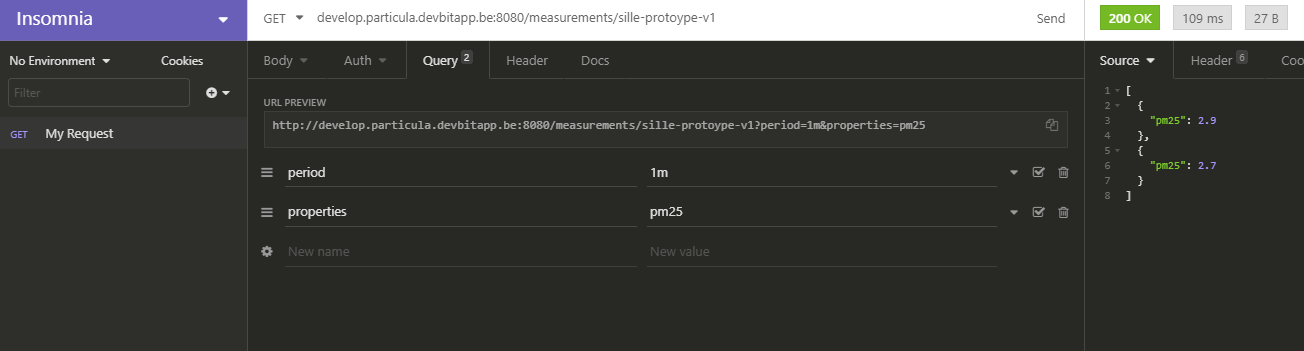
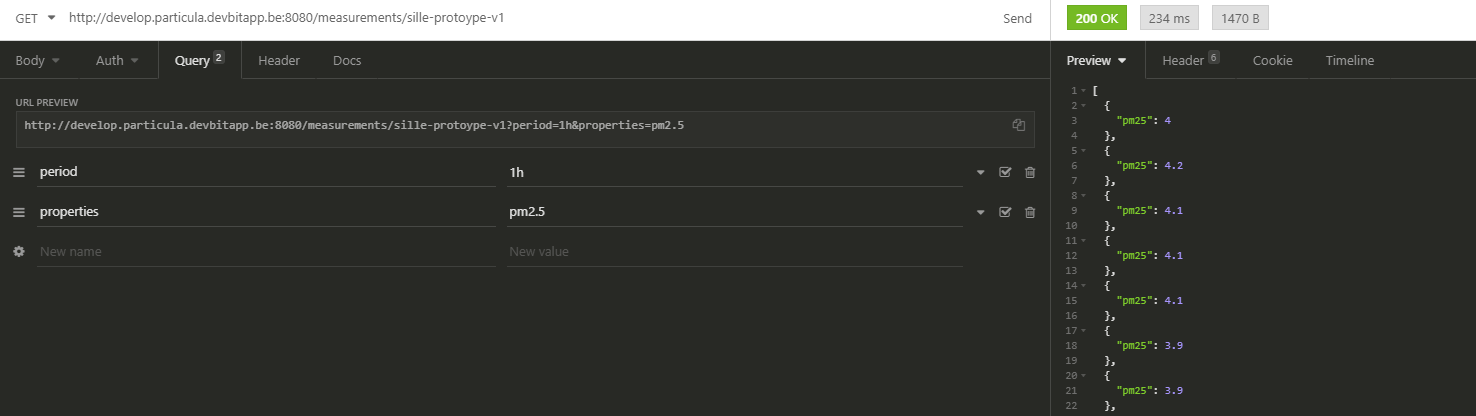
writing readme

diff --git a/README.md b/README.md
@@ -50,17 +50,26 @@ door hierbij het id toe te voegen krijg je een specifieke sensor:
 http://develop.particula.devbitapp.be:8080/measurements/nico-prototype-l432
 ```
 
-Om data te kunnen weergeven moet je een periode en een propertie toevoegen:
+Om data te kunnen weergeven moet je een periode: (Available values : 1h, 24h, 7d, 30d, 1y, 3y, all)
 
+Default value : 24h
 ```
-http://develop.particula.devbitapp.be:8080/measurements/nico-prototype-l432?period=1d&properties=pm25
+http://develop.particula.devbitapp.be:8080/measurements/nico-prototype-l432?period=1d&properties=pm2.5
 ```
 
-in dit geval voegen we de pm2.5 waarde van de sensor van nico dit van de afgelopen 24h.
+in dit geval voegen we de pm2.5 waarde van de sensor van nico dit van de afgelopen 1h.
 
 Dit kan ook weergegeven worden dankzij insomnia:
 
 ![](images/insomnia.PNG)
+
+Wanneer waarden worden opgevraagt die groter zijn dan 1h (24h, 7d, 30d, 1y, 3y, all) wordt er gebruik gemaakt van gemiddeldes dit zodat het aantal responses beperkt blijft tot een 300-400 tal. 
+
+![](images/insomniaMean.PNG)
+
+Wanneer u data opvraagt die nog niet in de data base staat ontvangt u NULL voor de niet bestaande data zoals te zien is hieronder.
+
+![](images/insomniaOld.PNG)
 
 Extra informatie in verband met de structuur van deze toepassing is te vinden op `https://app.swaggerhub.com/apis-docs/sillevl/Particula/0.1#/`
 
